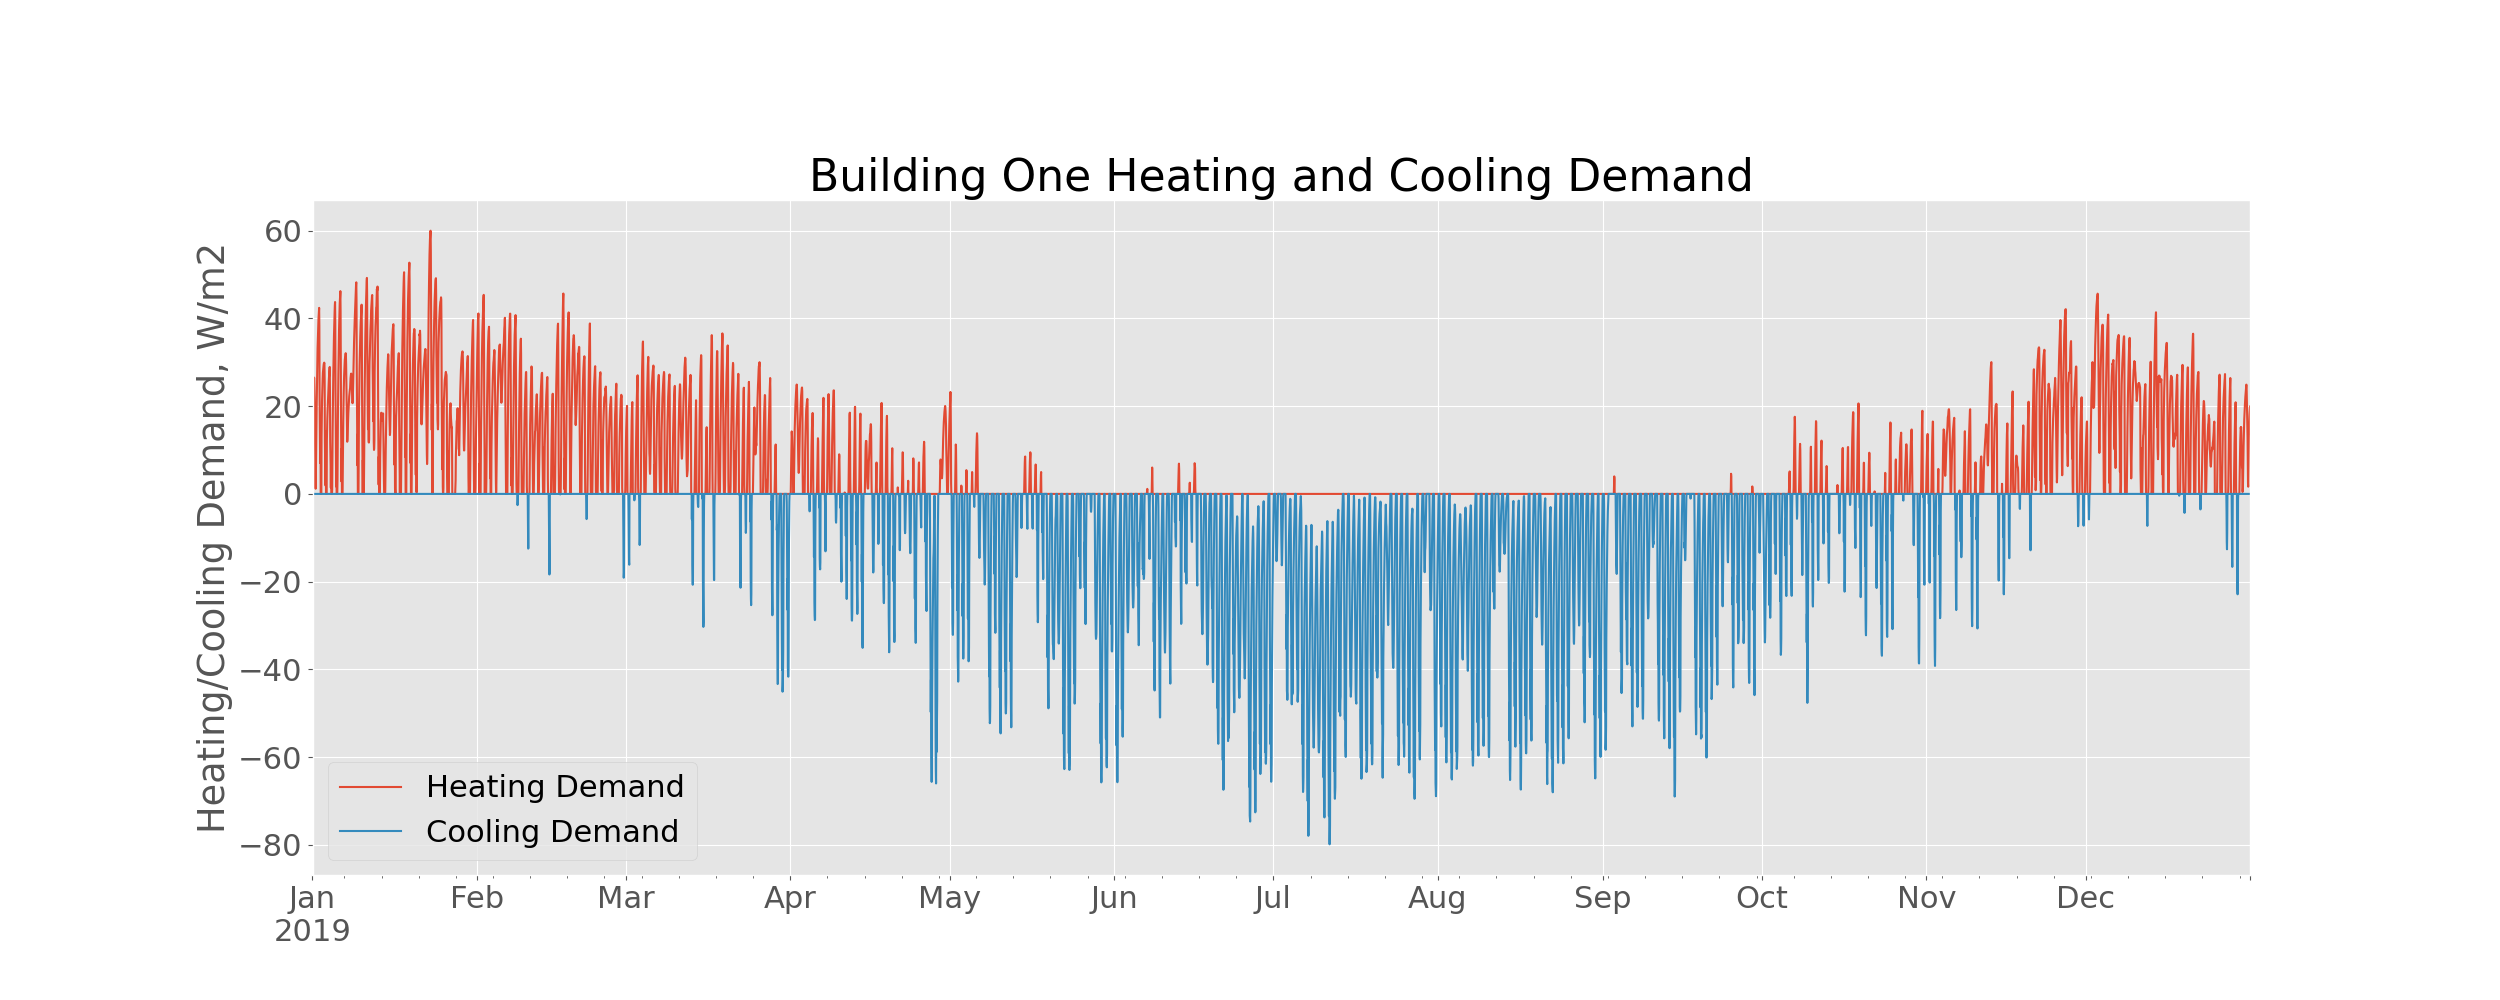
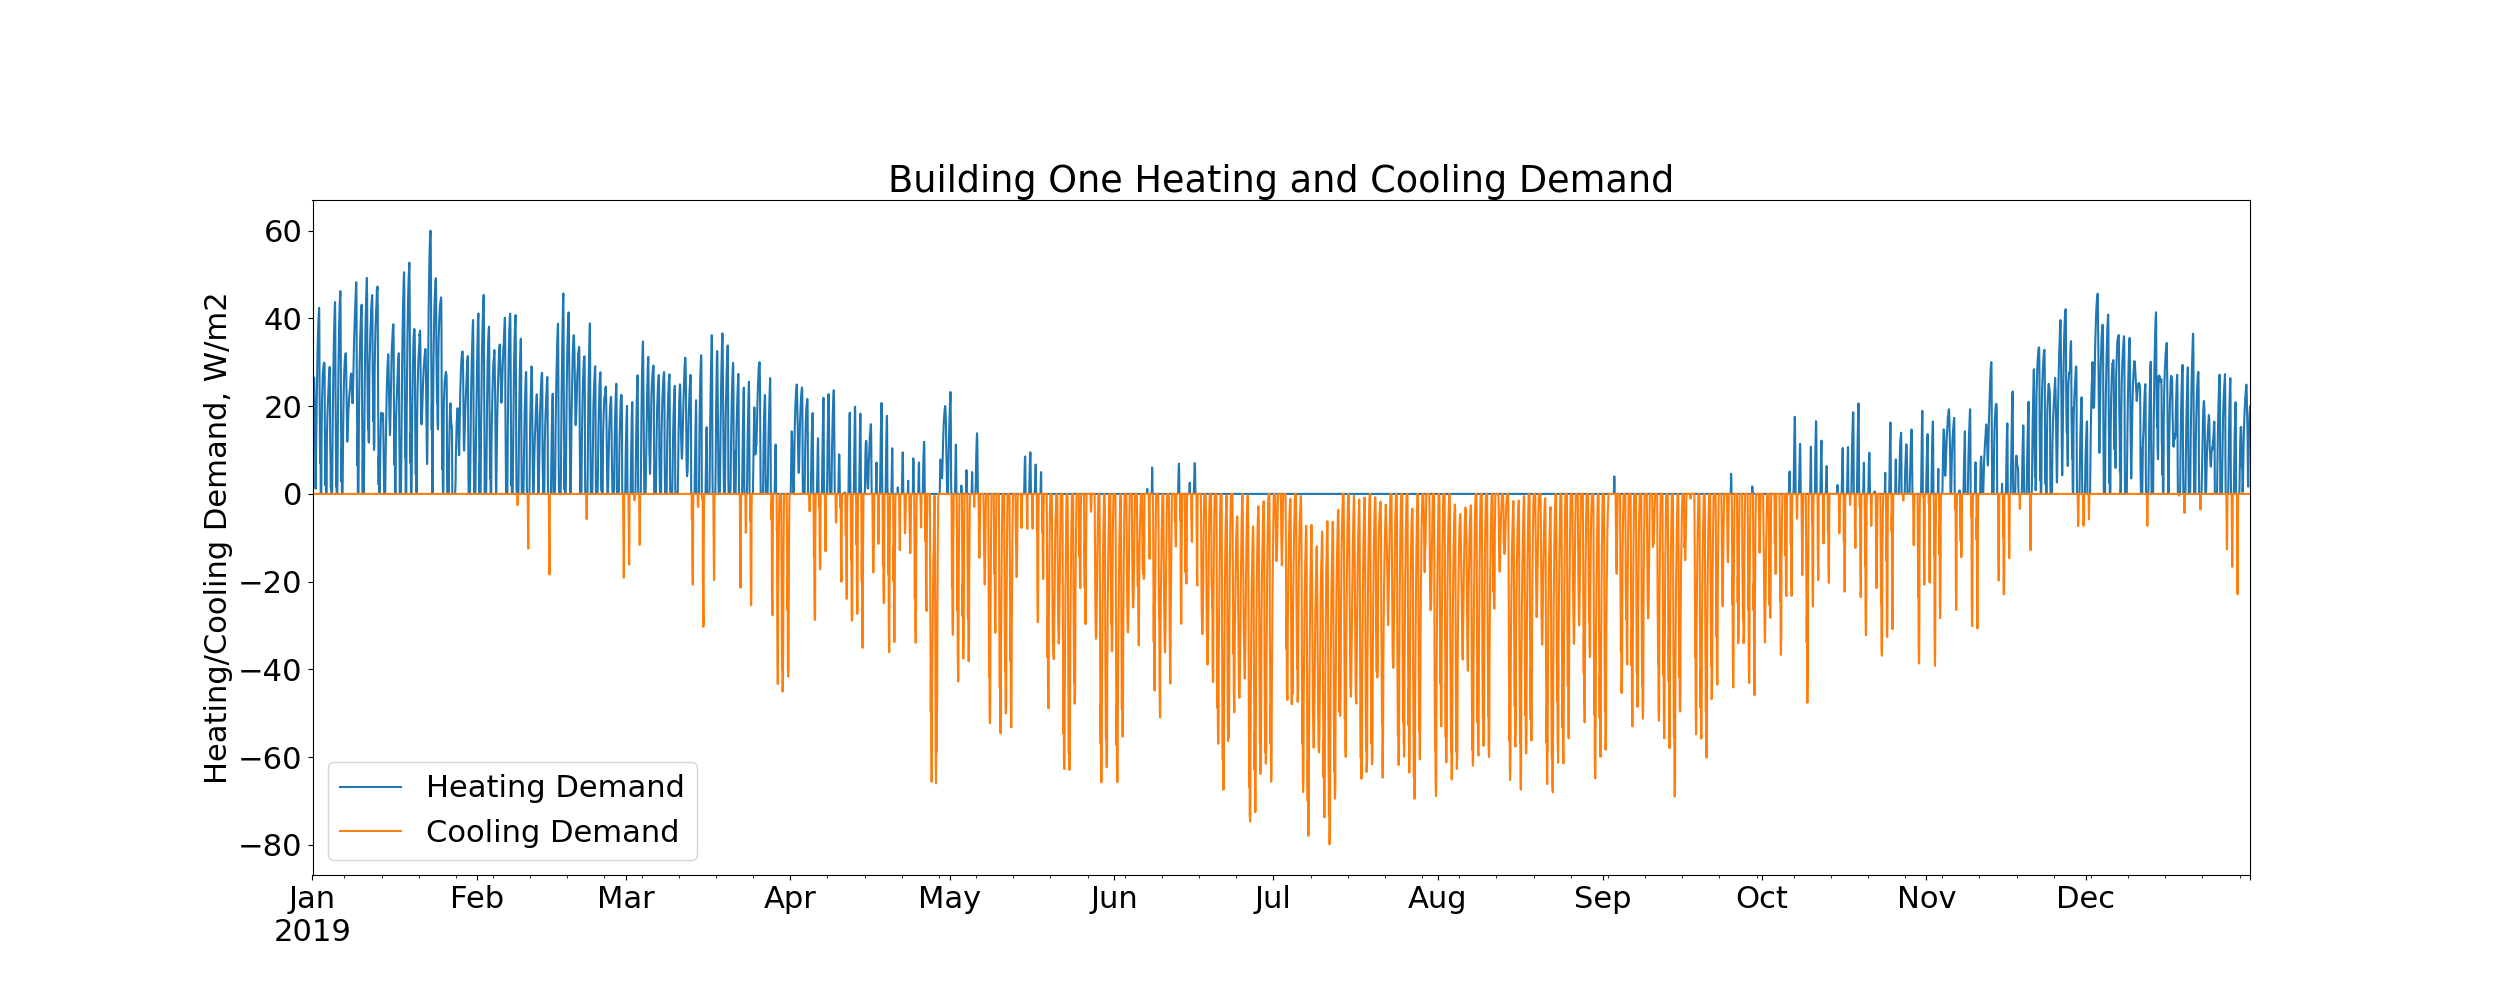
Comments

diff --git a/Code/bldgVisualization.py b/Code/bldgVisualization.py
@@ -17,11 +17,16 @@ import matplotlib
 import matplotlib.dates as mdates
 import datetime as dt
 
+# bldgID = "one"
 
 # Set root folder one level up, just for this example
 mainPath = os.path.abspath(os.path.join(os.path.dirname(__file__), '..'))
 sys.path.insert(0, mainPath)
 
+#Read building information
+buidingInfo = buildingInfo = os.path.join(
+    mainPath, 'Data', 'buildingInfo.csv')
+df_info = pd.read_csv(buidingInfo)#print(df)
 
 buidingOne =  os.path.join(
     mainPath, 'Data', 'building one output.csv')
@@ -36,10 +41,11 @@ df_bldg_1 = pd.read_csv(buidingOne)
 
 timeIndex = pd.date_range(start=pd.datetime(2019,1,1),freq='H',periods=8760)
 
-# Average Retail Price for Electricity in MA is $0.185/kWh
+# Average Retail Price for Electricity in Massachusetts is $0.185/kWh
 # Source: https://www.eia.gov/electricity/state/
-# Average Retail Price for Natural Gas in MA is $12.56/thousand cubic feet or $(12.26/1.036)/MMBtu
+# Average Retail Price for Natural Gas in Massachusetts is $12.56/thousand cubic feet or $(12.26/1.036)/MMBtu
 # Source: https://www.eia.gov/dnav/ng/ng_pri_sum_dcu_SMA_m.htm
+
 bldg_1_area = df_info['buildingArea'][0]
 
 df_bldg_1['FuelConsumption_MMBtu'] = df_bldg_1['HeatingEnergy']*3.412142/1000000
@@ -73,39 +79,43 @@ bldg_1_coolDemand = bldg_1_coolDemand/bldg_1_area # Cooling Demand in W/m2
 
 ##### PLot Hourly Heating and Cooling Demand
 
-fig = plt.figure(figsize=[25,10], dpi=100)
-plt.rc('font', size=22)
-fig.subplots_adjust(top=0.8)
-ax1 = fig.add_subplot(111)
-ax1.set_ylabel('Heating/Cooling Demand, W/m2')
-ax1.set_title('Building One Heating and Cooling Demand')
-bldg_1_heatDemand.plot()
-bldg_1_coolDemand.plot()
-plt.legend(['Heating Demand','Cooling Demand'])
-
-# plt.show()
-plt.savefig('bldg1_Houly_Energy_Demand.png')
+# fig = plt.figure(figsize=[25,10], dpi=100)
+# plt.rc('font', size=22)
+# fig.subplots_adjust(top=0.8)
+# ax1 = fig.add_subplot(111)
+# ax1.set_ylabel('Heating/Cooling Demand, W/m2')
+# ax1.set_title('Building Three Heating and Cooling Demand')
+# bldg_1_heatDemand.plot()
+# bldg_1_coolDemand.plot()
+# plt.legend(['Heating Demand','Cooling Demand'])
+# plotSaveLoc = os.path.join(
+#     mainPath, 'Visualization', 'bldg3_Houly_Energy_Demand.png')
+# # plt.show()
+# plt.savefig(plotSaveLoc)
 
 
 
 
 ##### Plot Monthly Utility Cost $
 
-# bldg_1_Cost = pd.Series(df_bldg_1['UtilityCost_$'].values, index=timeIndex)
-# bldg_1_fuelCost = pd.Series(bldg_1_fuelCost.values, index=timeIndex)
-# bldg_1_elecCost = pd.Series(bldg_1_elecCost.values, index=timeIndex)
+bldg_1_Cost = pd.Series(df_bldg_1['UtilityCost_$'].values, index=timeIndex)
+bldg_1_fuelCost = pd.Series(bldg_1_fuelCost.values, index=timeIndex)
+bldg_1_elecCost = pd.Series(bldg_1_elecCost.values, index=timeIndex)
 
-# plt.figure(figsize=[25,10], dpi=100)
-# plt.rc('font', size=22)
-# plt.bar(['Jan','Feb','Mar','Apr','May','Jun','Jul','Aug','Sep','Oct','Nov','Dec'],
-#         bldg_1_fuelCost.resample('M').sum(), color='red',edgecolor='black')
+plt.figure(figsize=[25,10], dpi=100)
+plt.rc('font', size=22)
+plt.bar(['Jan','Feb','Mar','Apr','May','Jun','Jul','Aug','Sep','Oct','Nov','Dec'],
+        bldg_1_fuelCost.resample('M').sum(), color='red',edgecolor='black')
 
-# plt.bar(range(len(bldg_1_elecCost.resample('M').sum())), bldg_1_elecCost.resample('M').sum(), 
-#         bottom=bldg_1_fuelCost.resample('M').sum(), color='royalblue',edgecolor='black')
-# plt.ylabel('Energy Utility Cost, $')
-# plt.title('Buiding Three Monthly Utility Cost')
-# plt.legend(['Natural Gas','Electricity'])
-# plt.savefig('bldg3_Monthly_Util_Cost.png')
+plt.bar(range(len(bldg_1_elecCost.resample('M').sum())), bldg_1_elecCost.resample('M').sum(), 
+        bottom=bldg_1_fuelCost.resample('M').sum(), color='royalblue',edgecolor='black')
+plt.ylabel('Energy Utility Cost, $')
+plt.title('Buiding One Monthly Utility Cost')
+plt.legend(['Natural Gas','Electricity'])
+plotSaveLoc = os.path.join(
+    mainPath, 'Visualization', 'bldg1_Monthly_Util_Cost.png')
+# plt.show()
+plt.savefig(plotSaveLoc)
 
 
 

diff --git a/Code/extractBldgInfo.py b/Code/extractBldgInfo.py
@@ -14,8 +14,11 @@ import json
 import os
 import pandas as pd
 
+#Set main folder 
+
 mainPath = os.path.abspath(os.path.join(os.path.dirname(__file__), '..'))
 
+#Set path name for buildng json files 
 footPrintJS = os.path.join(
     mainPath, 'Data', 'building_footprints.geojson')
 buildingJS = os.path.join(
@@ -26,21 +29,22 @@ buildingHeight = []
 buildingWWR = []
 buildingName = []
 
-
-# fname = r"c:\Users\yjia\Desktop\Building Assignment\Data\building_footprints.geojson"
+#Read geojson file and reproject to WGS84 cordinates system
 df_fp = gpd.read_file(footPrintJS)
-
-
 df_fp = df_fp.to_crs(epsg='4326')
 
-# df.to_file("output.json", driver="GeoJSON")
-
+#Convert geo dataframe to json
 fp = df_fp.to_json()
 
+#Conver json to Python dict
 fp_dict = json.loads(fp)
 
+#Visualize building footprints through geojsonio 
 geojsonio.display(fp)
+
+#Extract information from json files for each building
 for i in range(len(fp_dict['features'])):
+    #Calculate building area using Python area package 
     ar = area(fp_dict['features'][i]['geometry'])
     buildingArea.append(ar)
 
@@ -55,7 +59,8 @@ for i in range(len(bd_dict['buildings'])):
     buildingWWR.append(wwr)
     buildingName.append(name)
     
-    
+
+#Save structured and processed building information to a csv file     
 data = {'buildingName':buildingName, 'buildingArea':buildingArea, 'buildingHeight':buildingHeight, 'buildingWWR':buildingWWR}    
 
 df = pd.DataFrame(data, columns = ['buildingName', 'buildingArea', 'buildingHeight','buildingWWR'])
